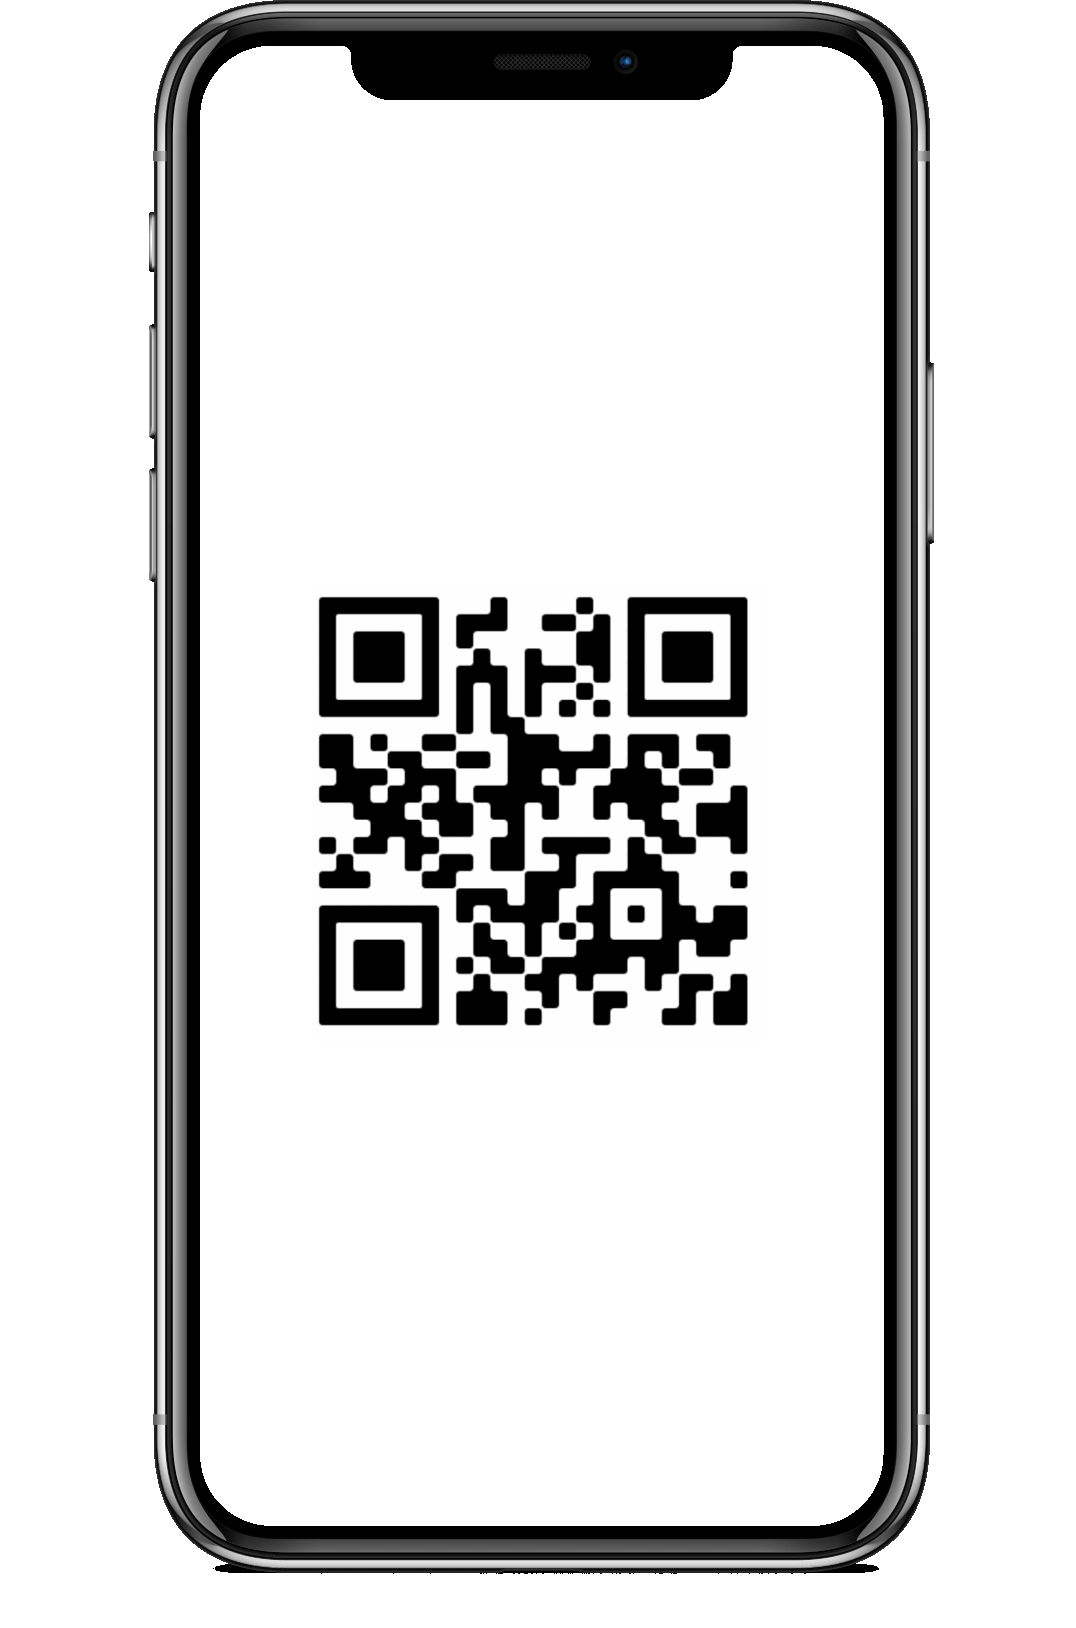
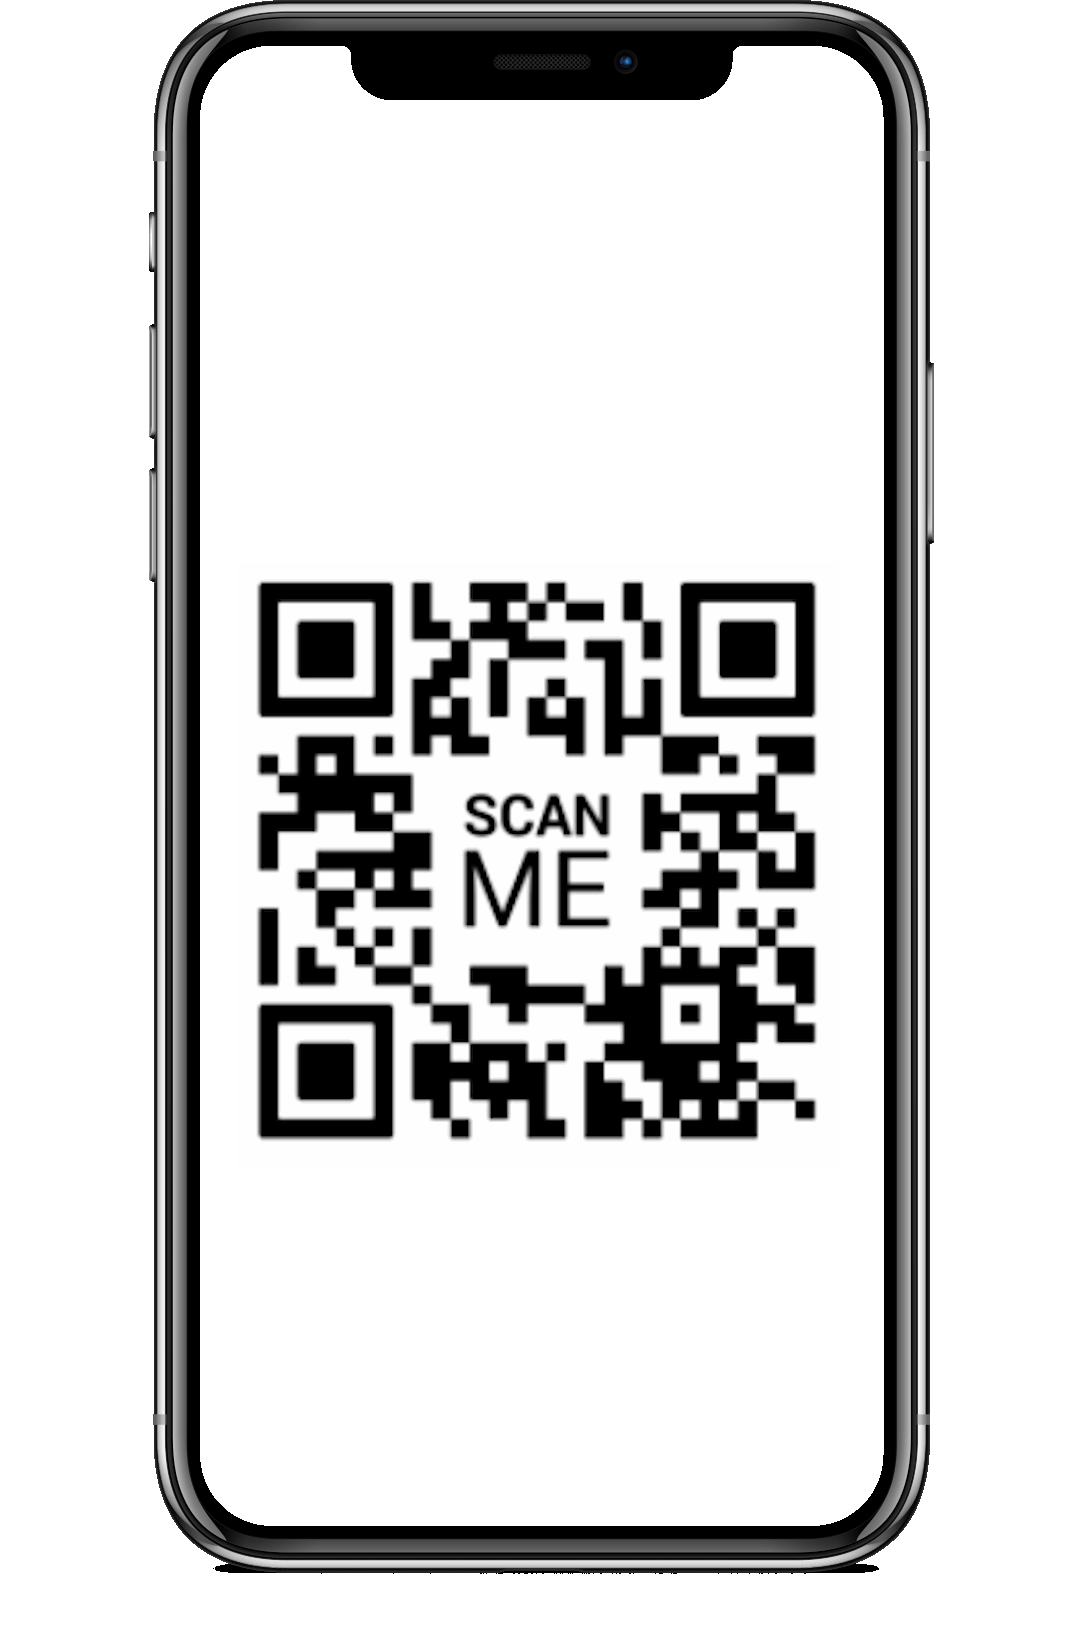
Update QR code and small layout tweaks

Changed region(s): [[0.2147, 0.3378, 0.7667, 0.7064], [0.7361, 0.6757, 0.7667, 0.7064]]

diff --git a/src/components/LandingPage/LandingPage.jsx b/src/components/LandingPage/LandingPage.jsx
@@ -30,7 +30,7 @@ const LandingPage = () => {
       <GlowHubLoader 
         clientID="GH-9PI4NOH524O"
       />
-      <div className="LandingPage pb-5 pe-5 ps-5 pt-5">
+      <div className="LandingPage pb-5 pe-5 ps-5 pt-3">
         <div className="text-dark d-flex text-center justify-content-between">
           <h1 className="font-weitght-bold mt-0 p-0 RunEat">RunEat</h1>
           {/* <div>
@@ -57,8 +57,8 @@ const LandingPage = () => {
               The digital self-care app that helps you reach your health and
               weight goals through better eating.
             </p>
-            <button className="mt-4 me-3 fs-3 text-decoration-none borderR py-2 px-4 bg-white w-75">
-              Download app scan following QR code
+            <button className="mt-4 me-3 fs-4 text-decoration-none borderR py-2 px-4 bg-white w-75">
+              Download app scanning the following QR code
             </button>
           </div>
           <div className="d-flex justify-content-center col-4 pb-5">
